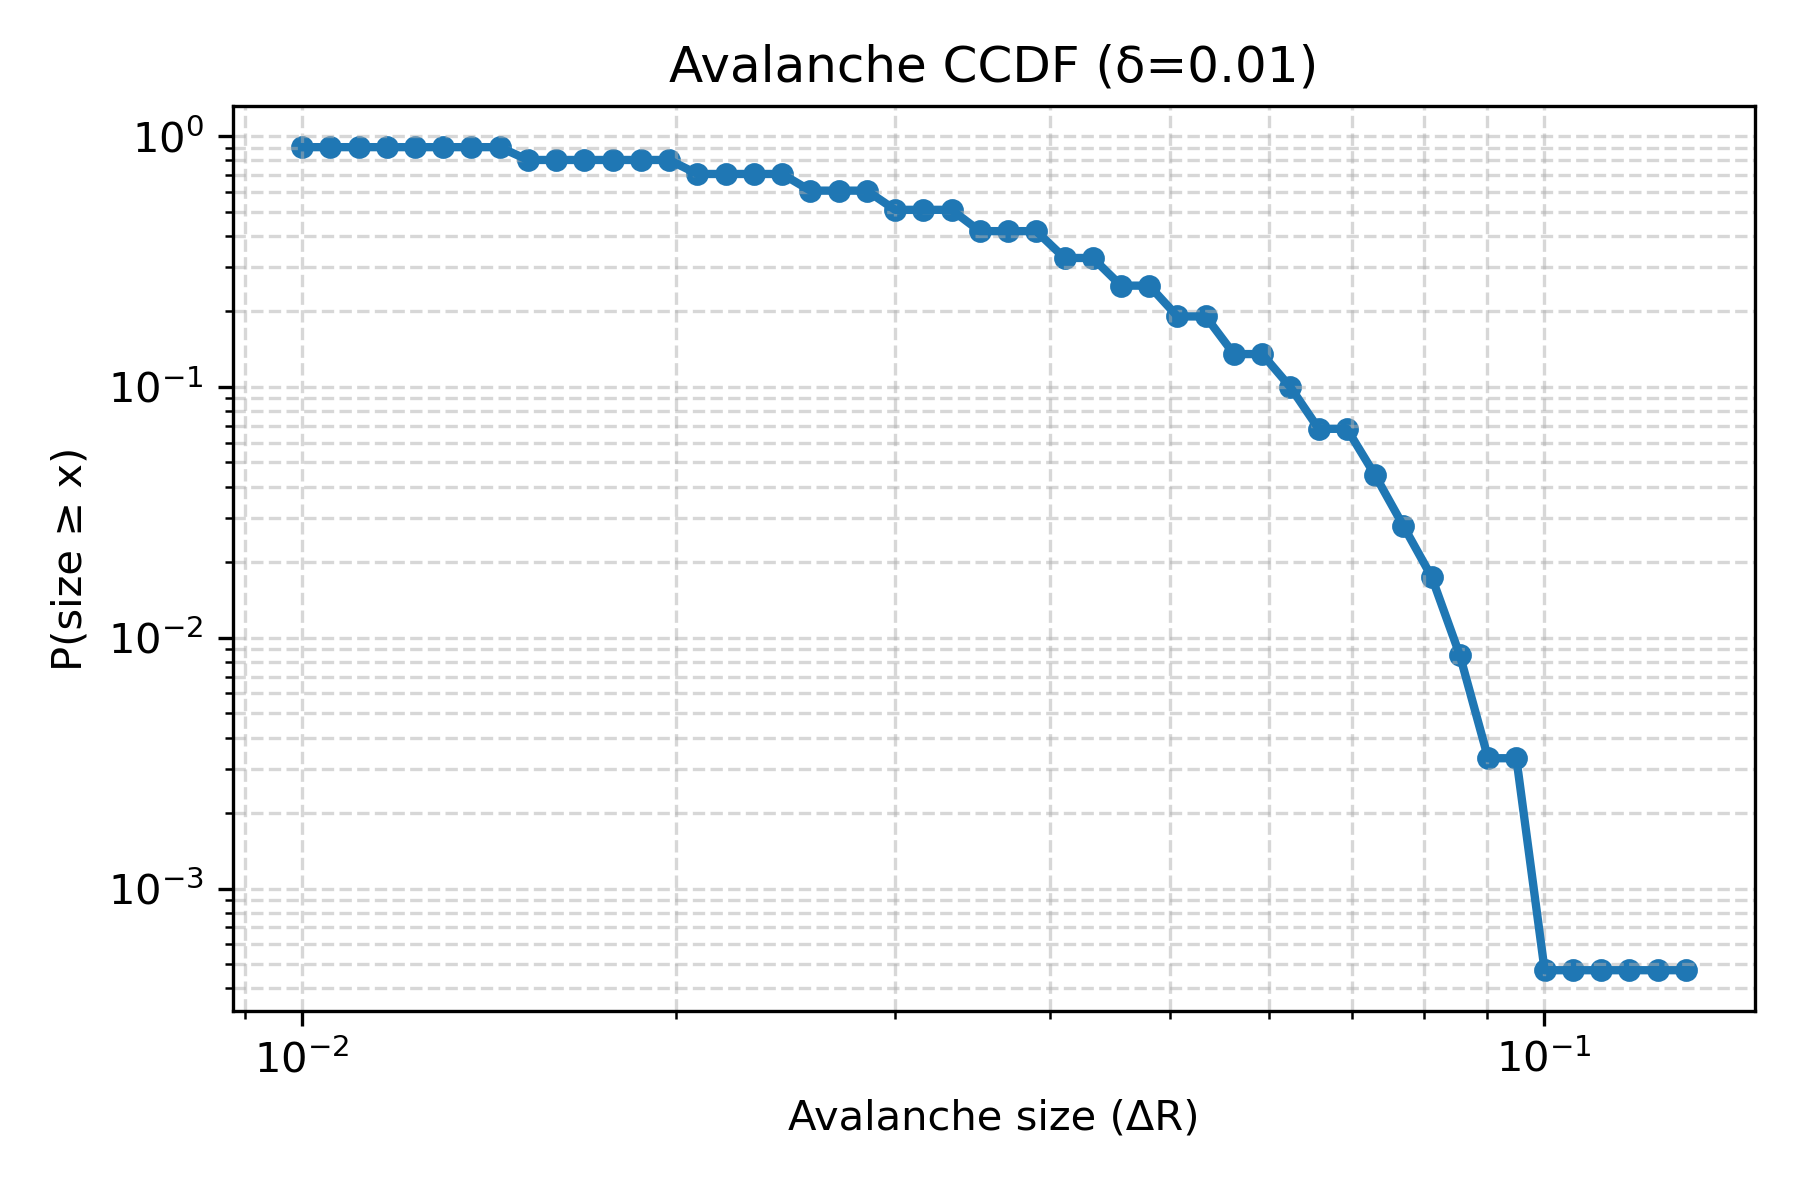
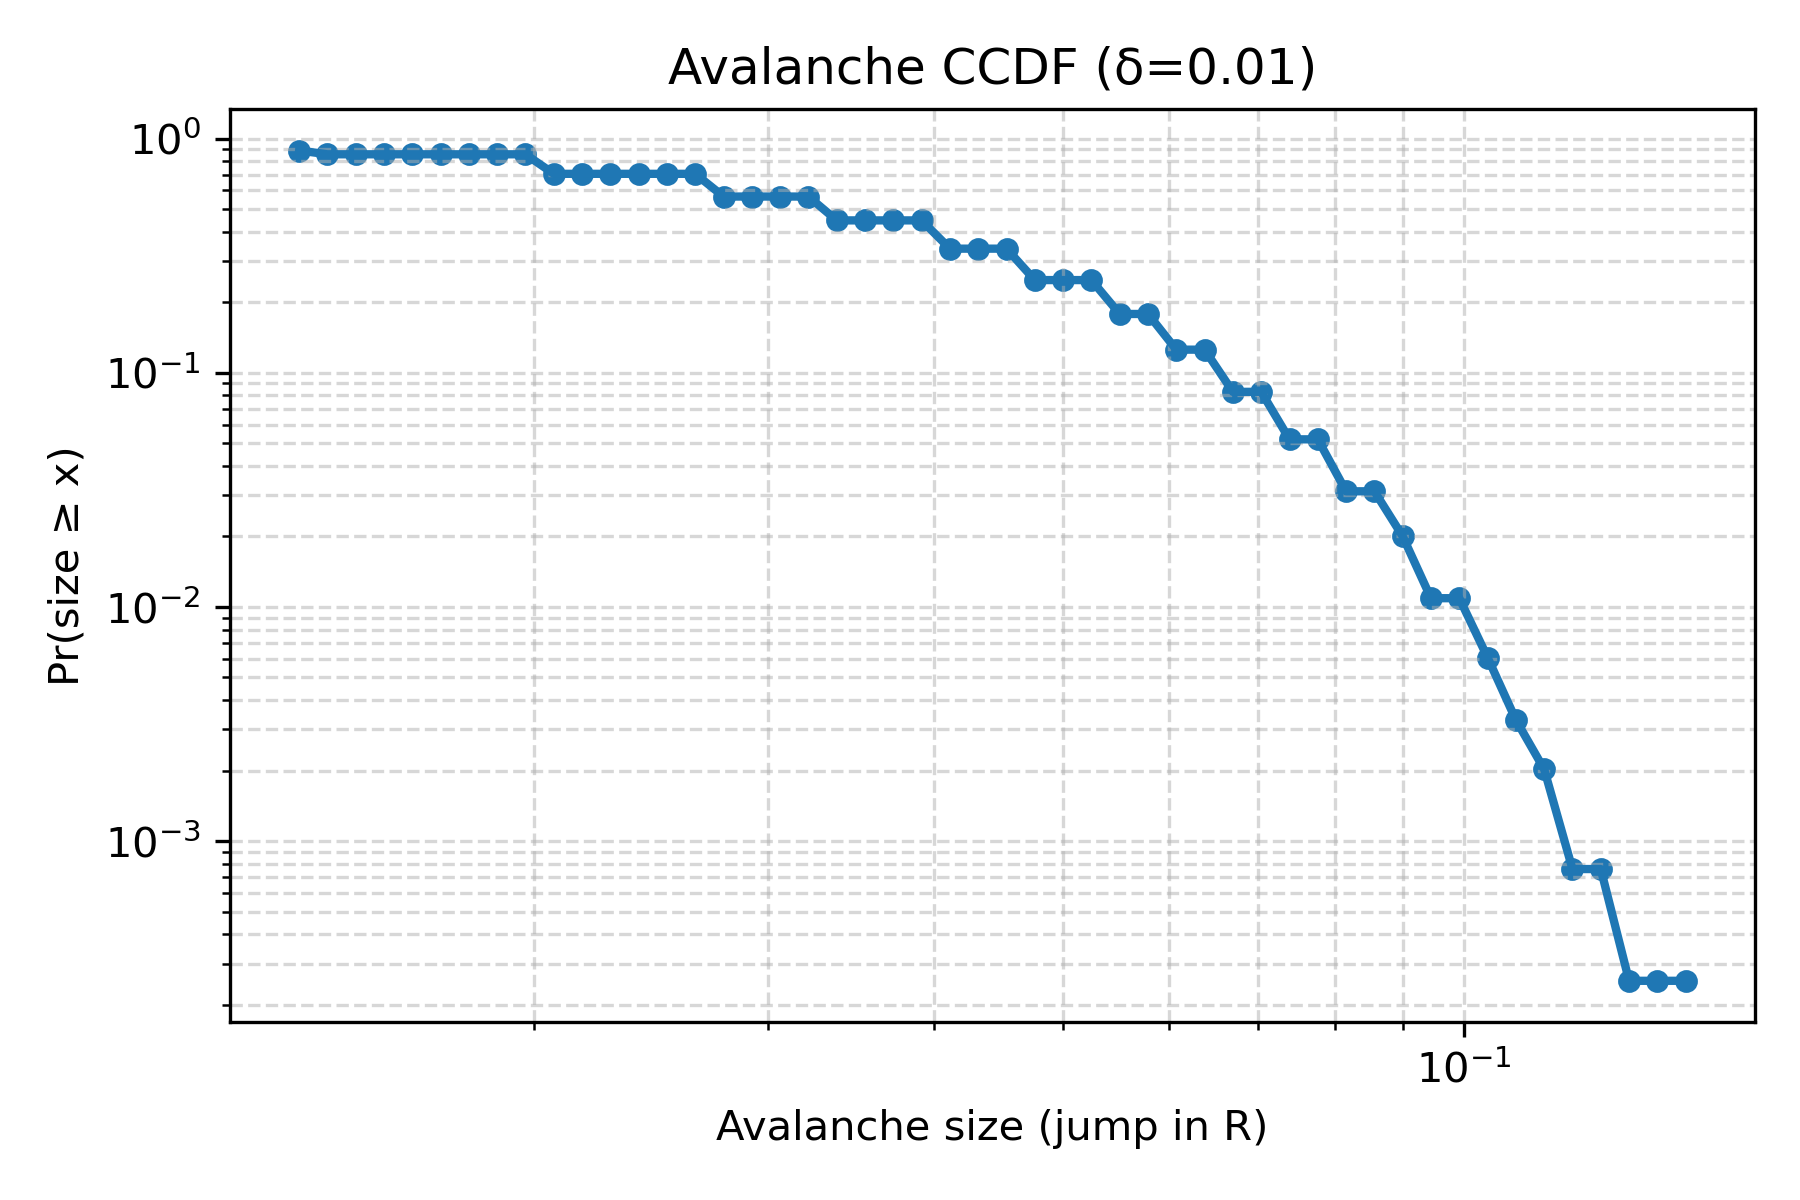
numba implementation

Changed region(s): [[0.0311, 0.0308, 0.9956, 0.8942], [0.4044, 0.8942, 0.7156, 0.9558]]

diff --git a/model/core.py b/model/core.py
@@ -5,6 +5,7 @@ from mesa.datacollection import DataCollector
 import networkx as nx
 import numpy as np
 from .agents import Household, Bin
+from .functions import assign_bin
 
 class RecyclingModel(Model):
     """
@@ -51,12 +52,12 @@ class RecyclingModel(Model):
         self.bins = {}     
 
         # 3a. Place bins on a 3×3 subgrid within L×L
-        bin_positions = [(x, y) for x in [2, 5, 8] for y in [2, 5, 8]]
-        for m, (x_m, y_m) in enumerate(bin_positions):
+        self.bin_positions = np.array([(x, y) for x in [2, 5, 8] for y in [2, 5, 8]], dtype=np.float64)
+        for m, (x_m, y_m) in enumerate(self.bin_positions):
             bin_id = N + m 
-            bin_agent = Bin(unique_id=bin_id, model=self, K_m=K_default, pos=(x_m, y_m))
+            bin_agent = Bin(unique_id=bin_id, model=self, K_m=K_default, pos=(int(x_m), int(y_m)))
             self.bins[m] = bin_agent
-            self.grid.place_agent(bin_agent, (x_m, y_m))
+            self.grid.place_agent(bin_agent, (int(x_m), int(y_m)))
             self.schedule.add(bin_agent)
 
         # 3b. Initialize household attributes
@@ -71,11 +72,7 @@ class RecyclingModel(Model):
         # Compute assigned bin and base cost C0 for each household
         for i in range(N):
             x_i, y_i = coords[i]
-            # find nearest bin by Euclidean distance
-            dists = [np.linalg.norm(np.array((x_i, y_i)) - np.array(self.bins[m].pos))
-                     for m in self.bins]
-            bin_id = int(np.argmin(dists))
-            dist_to_bin = dists[bin_id]
+            bin_id, dist_to_bin = assign_bin(x_i, y_i, self.bin_positions)
             C0_i = c + kappa * dist_to_bin
             if i in champions:
                 C0_i = 0.0  # champion has no base cost

diff --git a/model/agents.py b/model/agents.py
@@ -1,12 +1,7 @@
 from mesa import Agent
 from collections import deque
 import numpy as np
-import math
-
-def weighted_average(history, decay=0.8):
-    weights = [decay**i for i in range(len(history)-1, -1, -1)]
-    weights = np.array(weights) / sum(weights)
-    return np.sum(np.array(history) * weights)
+from .functions import compute_choice, weighted_average
 
 class Household(Agent):
     """
@@ -41,22 +36,13 @@ class Household(Agent):
 
         # Use average of history
         if self.rho_history:
-            self.hat_rho = weighted_average(self.rho_history, decay=self.decay)
+            self.hat_rho = weighted_average(np.array(self.rho_history), decay=self.decay)
         if self.deltaC_history:
-            self.hat_deltaC = weighted_average(self.deltaC_history, decay=self.decay)
+            self.hat_deltaC = weighted_average(np.array(self.deltaC_history), decay=self.decay)
         
-        U_R = self.P - (self.C0 + self.hat_deltaC) + self.alpha * self.hat_rho
-        U_N = - self.alpha * self.hat_rho
-        if self.logit:
-            # compute probabilities
-            m = max(U_R, U_N)
-            exp_R = math.exp((U_R - m) * self.lambda_param)
-            exp_N = math.exp((U_N - m) * self.lambda_param)
-            p_R = exp_R / (exp_R + exp_N)
-            # sample
-            self.s = (self.local_random.random() < p_R)
-        else:
-            self.s = True if (U_R > U_N) else False
+        rng_val = self.local_random.random()
+        self.s = compute_choice(self.P, self.C0, self.hat_deltaC, self.alpha, self.hat_rho, self.logit, self.lambda_param, rng_val)
+
 
     def advance(self):
         """

diff --git a/model/functions.py b/model/functions.py
@@ -1,0 +1,38 @@
+import math
+import numpy as np
+from numba import njit
+
+@njit
+def weighted_average(history, decay=0.8):
+    n = len(history)
+    weights = np.empty(n)
+    for i in range(n):
+        weights[i] = decay ** (n - i - 1)
+    weights /= weights.sum()
+    return (history * weights).sum()
+
+@njit
+def compute_choice(P, C0, hat_deltaC, alpha, hat_rho, logit, lambda_param, rng_val):
+    U_R = P - (C0 + hat_deltaC) + alpha * hat_rho
+    U_N = - alpha * hat_rho
+
+    if logit:
+        m = max(U_R, U_N)
+        exp_R = math.exp((U_R - m) * lambda_param)
+        exp_N = math.exp((U_N - m) * lambda_param)
+        p_R = exp_R / (exp_R + exp_N)
+        return rng_val < p_R
+    else:
+        return U_R > U_N
+    
+@njit
+def assign_bin(x_i, y_i, bin_positions):
+    min_dist = 1e10
+    bin_id = -1
+    for m in range(len(bin_positions)):
+        x_m, y_m = bin_positions[m, 0], bin_positions[m, 1]
+        dist = math.sqrt((x_i - x_m)**2 + (y_i - y_m)**2)
+        if dist < min_dist:
+            min_dist = dist
+            bin_id = m
+    return bin_id, min_dist

diff --git a/analysis/avalanches.py b/analysis/avalanches.py
@@ -17,10 +17,10 @@ def compute_avalanches(series, delta=0.05):
 
 # 1. Parameters for avalanche analysis
 T = 1000                    # number of time steps
-seeds = range(0, 5)         # multiple runs for statistics
+seeds = range(0, 10)         # multiple runs for statistics
 delta = 0.01                # threshold for defining an avalanche
 
-N = 200
+N = 150
 L = int(np.ceil(np.sqrt(N)))
 
 # Parameter set
